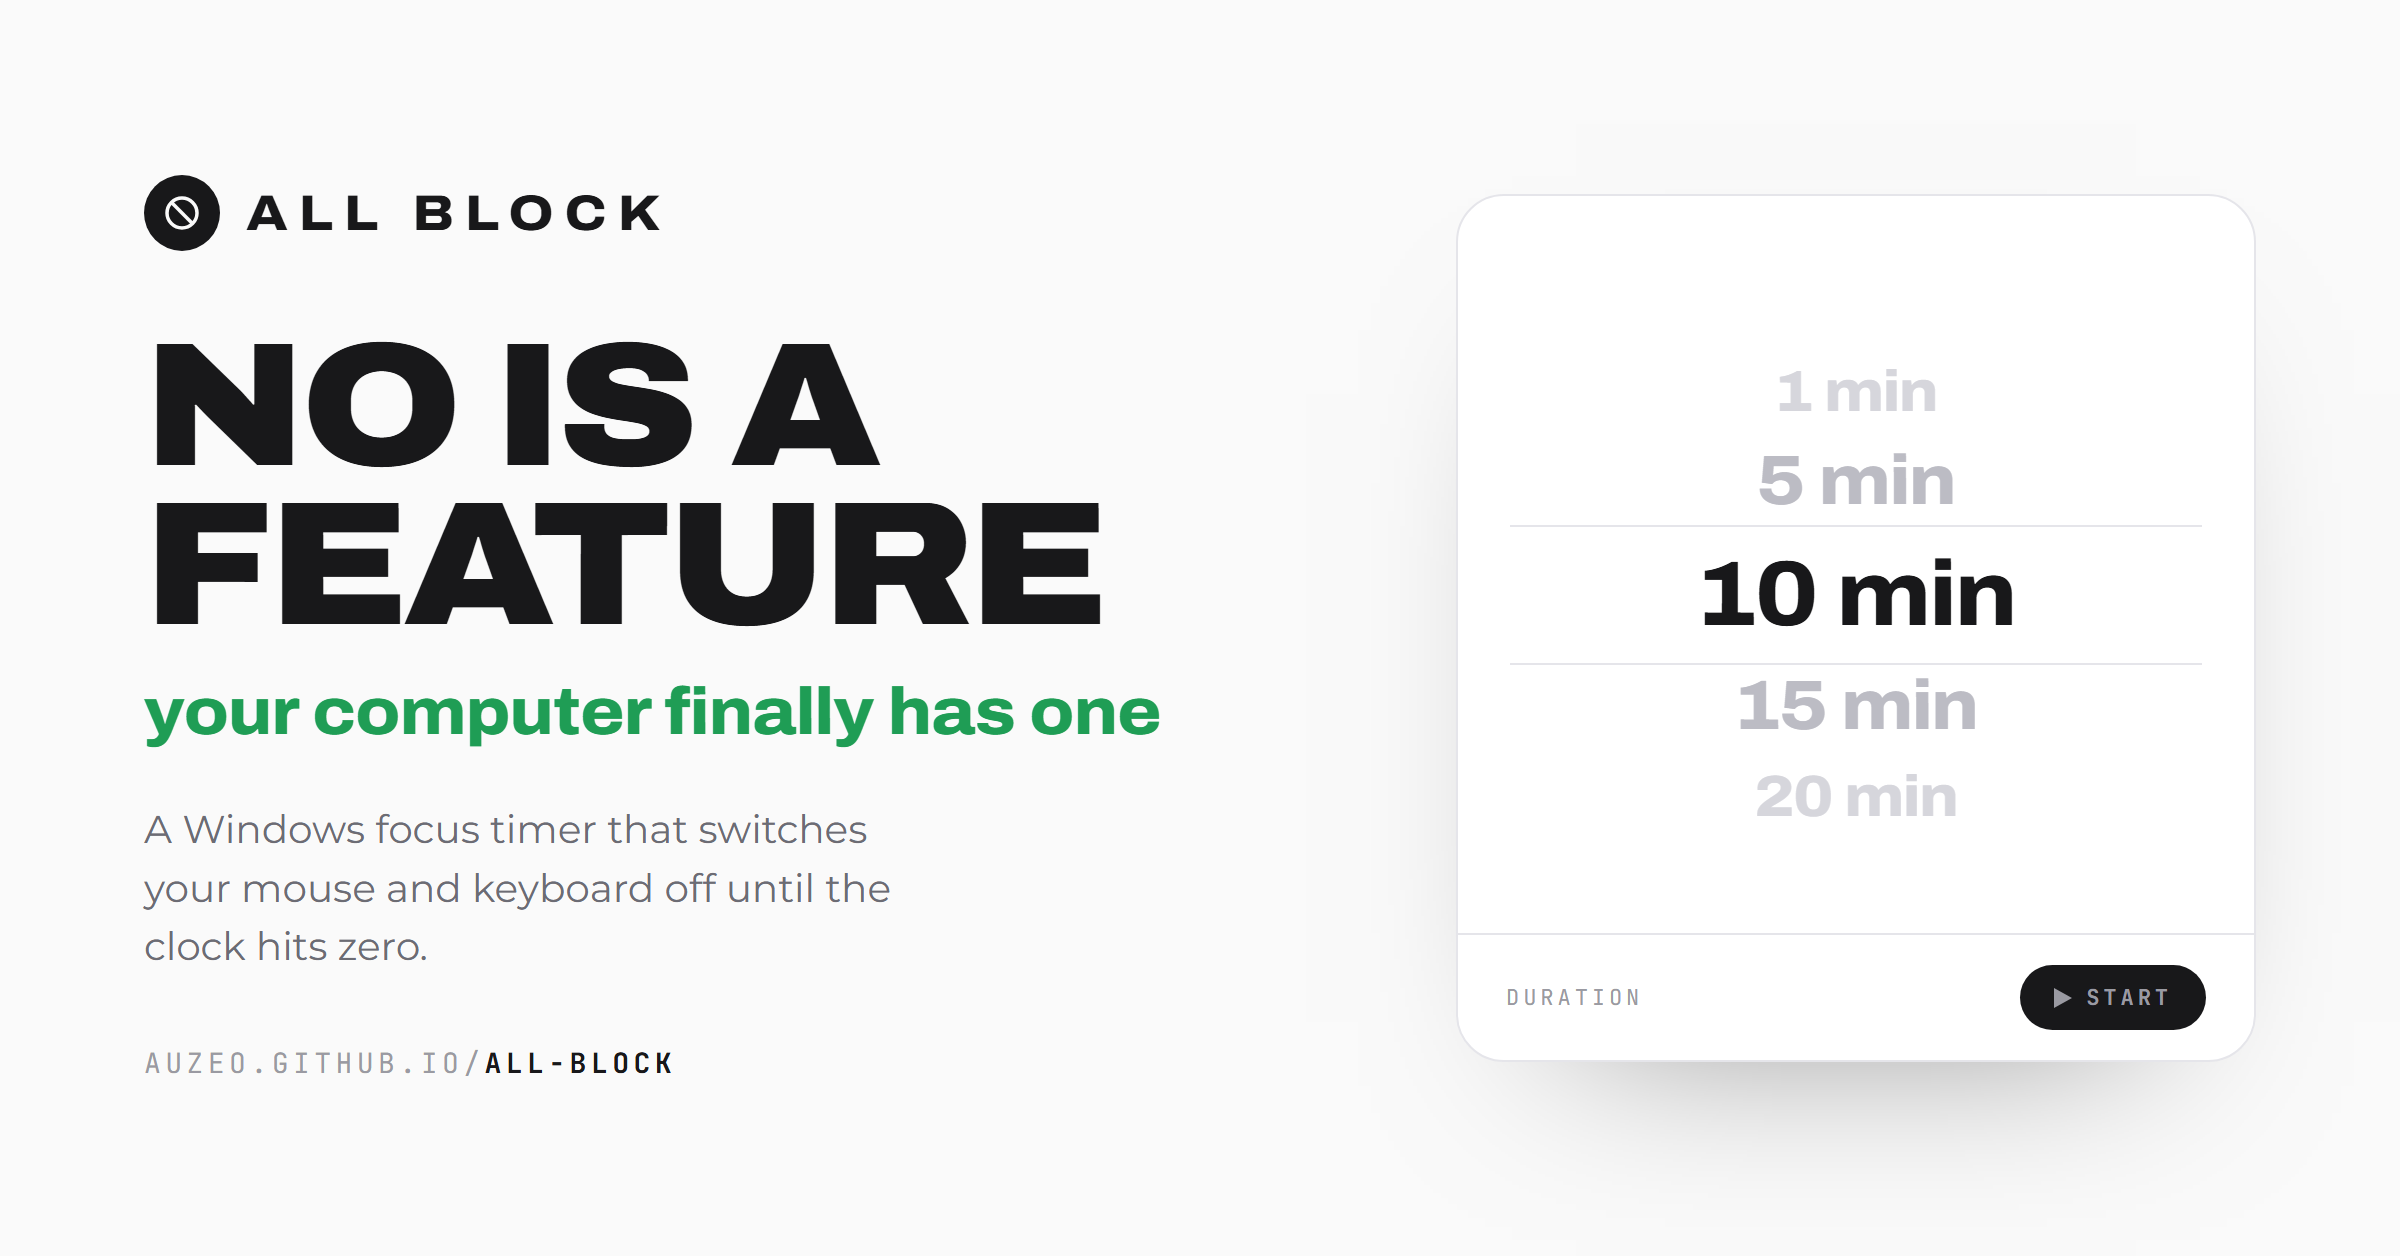
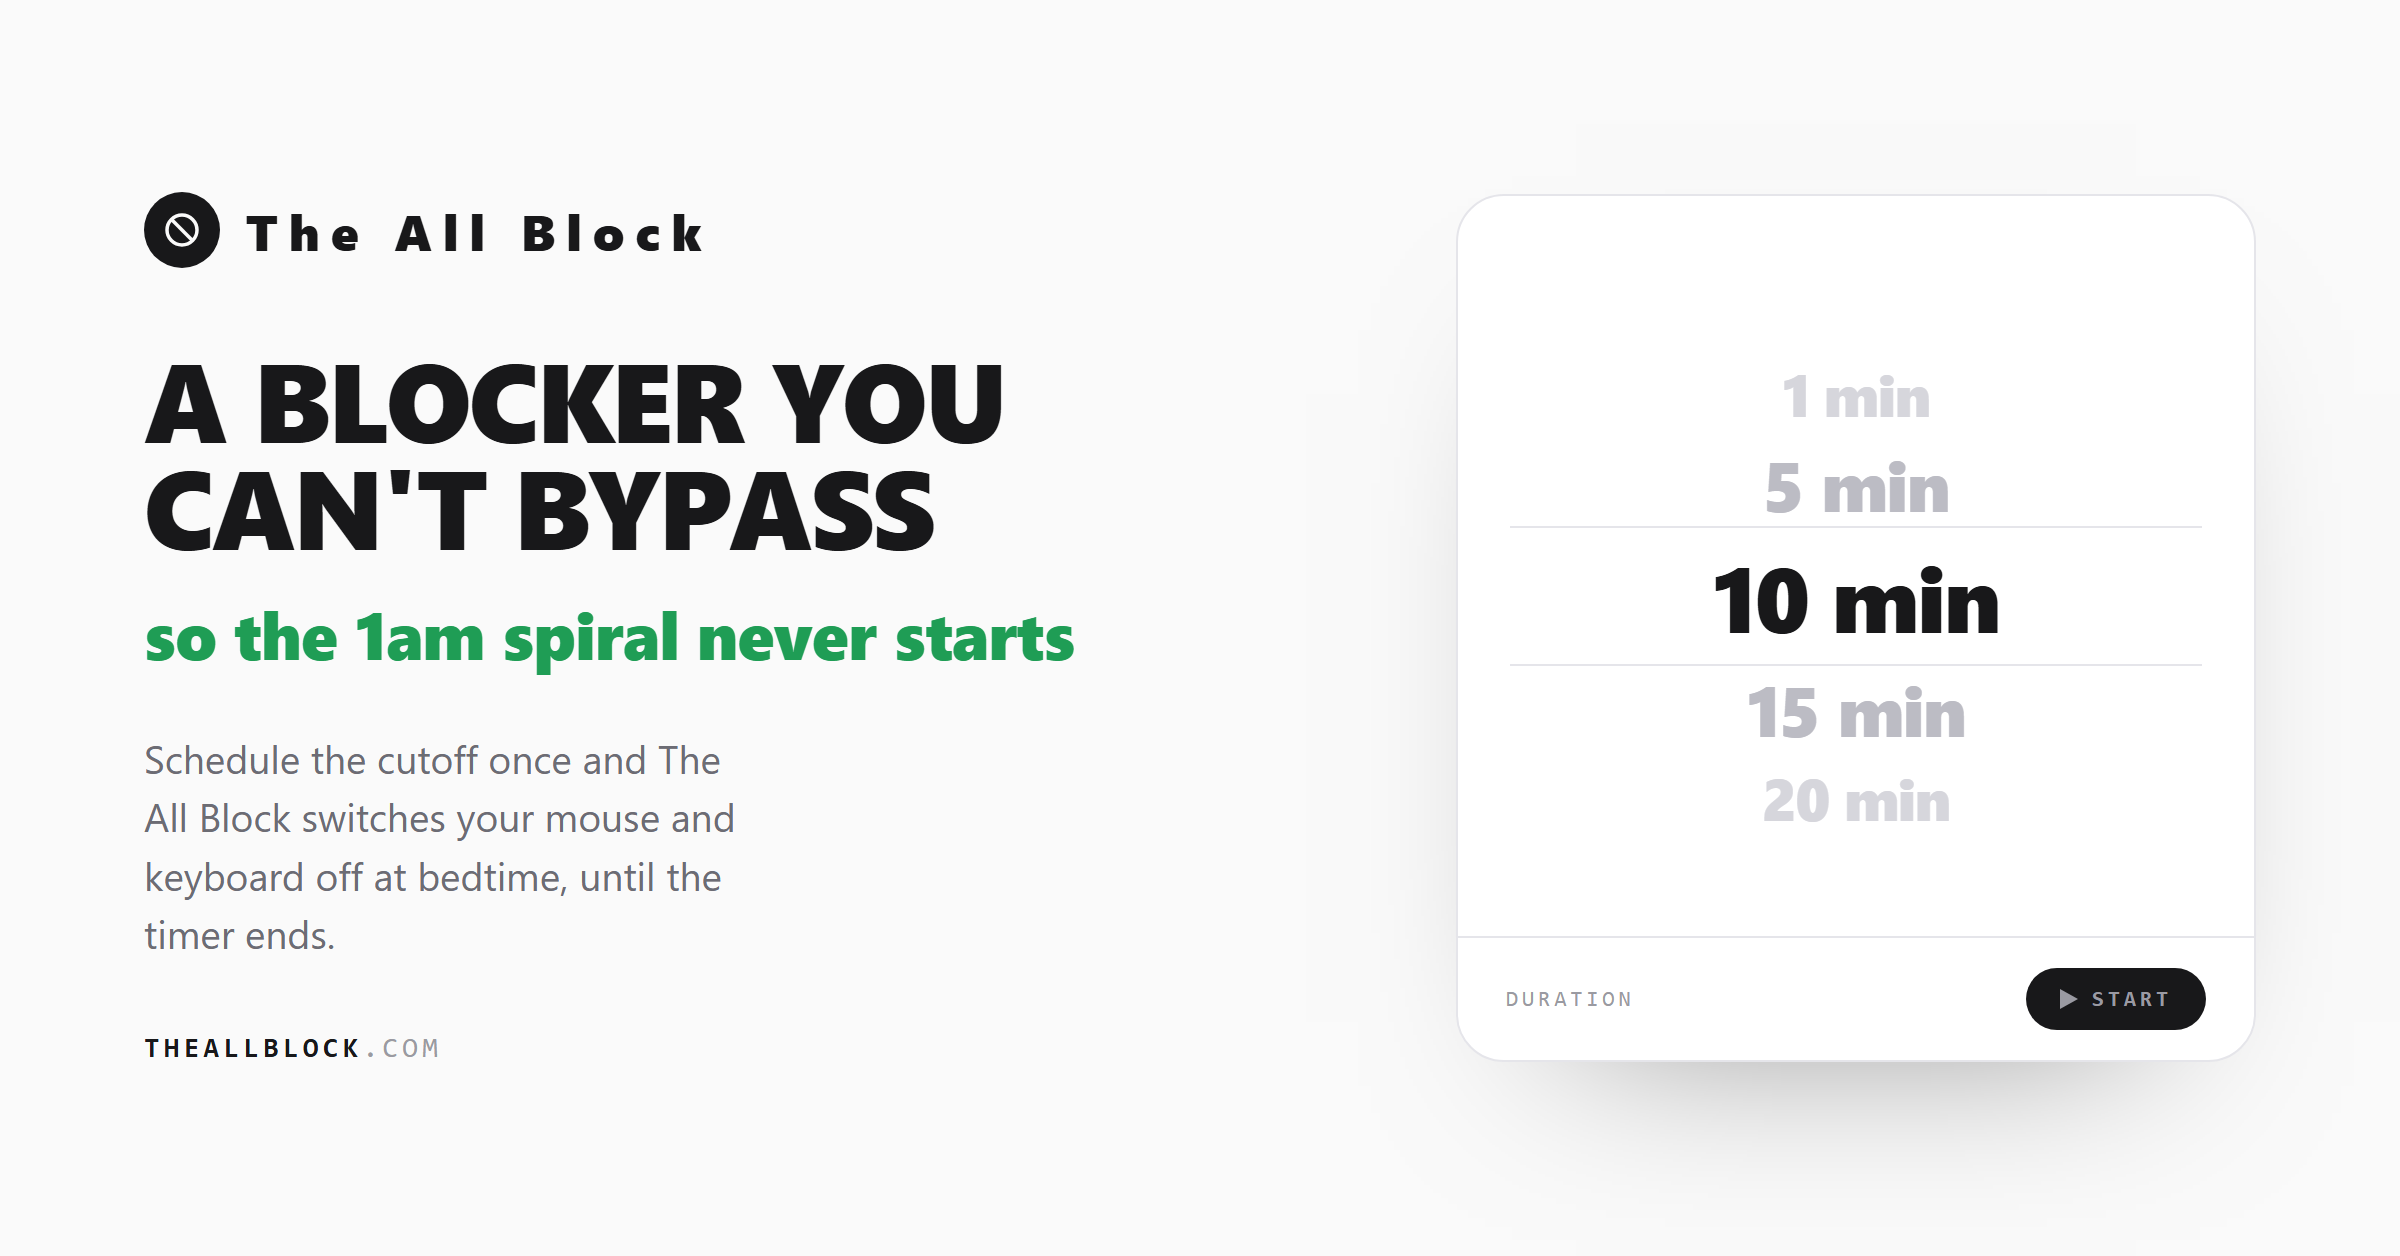
Re-render og-cover and press cards, cache-bust the OG image URL
og-cover.png and the press kit still had the old allblock.dpdns.org
copy baked into the pixels even after og-card.html's text was fixed.
Also versioned the og:image/twitter:image URLs so Discord and other
unfurlers can't keep serving a cached copy of the old file forever.

diff --git a/docs/index.html b/docs/index.html
@@ -31,14 +31,14 @@ try{
 <meta property="og:type" content="website">
 <meta property="og:site_name" content="The All Block">
 <!-- absolute, because WhatsApp/Slack/Discord don't resolve relative og:image -->
-<meta property="og:image" content="https://theallblock.com/img/og-cover.png">
+<meta property="og:image" content="https://theallblock.com/img/og-cover.png?v=7.7.2">
 <meta property="og:image:width" content="1200">
 <meta property="og:image:height" content="628">
 <meta property="og:image:alt" content="The All Block: the headline A blocker you can't bypass, so the 1am spiral never starts, beside a duration wheel set to 10 minutes.">
 <meta name="twitter:card" content="summary_large_image">
 <meta name="twitter:title" content="The All Block">
 <meta name="twitter:description" content="A blocker you can't bypass: The All Block switches your mouse and keyboard off system-wide, so the 1am spiral, the doomscroll and the one-more-game session never get the chance to start.">
-<meta name="twitter:image" content="https://theallblock.com/img/og-cover.png">
+<meta name="twitter:image" content="https://theallblock.com/img/og-cover.png?v=7.7.2">
 <link rel="preconnect" href="https://fonts.googleapis.com">
 <link rel="preconnect" href="https://fonts.gstatic.com" crossorigin>
 <!-- the fonts were the one render-blocking request on the page: a round trip
